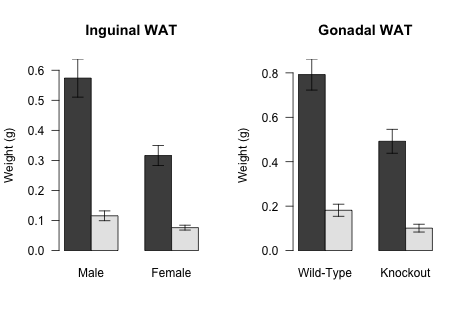
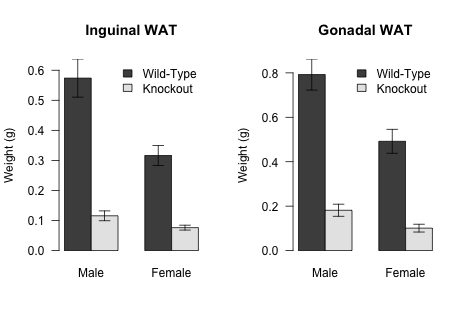
Fixed axis error in Figure 3B, now both say male/female

diff --git a/Mouse Data/Muscle Tsc1 Knockout/HFD/Sacrifice Analysis/mTSC1-sac-data.tex b/Mouse Data/Muscle Tsc1 Knockout/HFD/Sacrifice Analysis/mTSC1-sac-data.tex
@@ -146,7 +146,7 @@ These data can be found in
 \textbf{/Users/davebrid/Documents/GitHub/TissueSpecificTscKnockouts/Mouse
 Data/Muscle Tsc1 Knockout/HFD/Sacrifice Analysis} in a file named
 \textbf{HFD Sacrifice Data.xlsx}. This script was most recently updated
-on \textbf{Fri Mar 1 14:51:43 2019}.
+on \textbf{Mon May 20 08:27:24 2019}.
 
 \section{Analysis}\label{analysis}
 
@@ -292,7 +292,7 @@ WAT.
 \begin{verbatim}
 ## R version 3.5.0 (2018-04-23)
 ## Platform: x86_64-apple-darwin15.6.0 (64-bit)
-## Running under: macOS  10.14.2
+## Running under: macOS  10.14.4
 ## 
 ## Matrix products: default
 ## BLAS: /Library/Frameworks/R.framework/Versions/3.5/Resources/lib/libRblas.0.dylib
